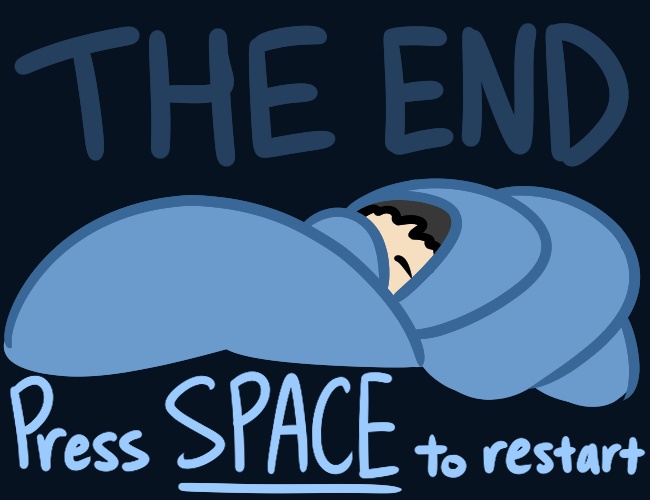
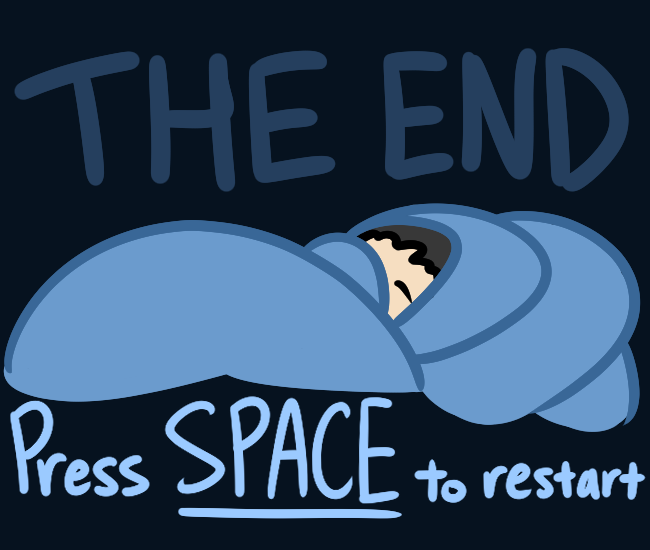
updated title cards and revised path assets

diff --git a/Source/Scenes/Play.js b/Source/Scenes/Play.js
@@ -28,12 +28,7 @@ class Play extends Phaser.Scene
         this.load.image("obstacle1", "./assets/obstacles/obstacle01.png");
         this.load.image("obstacle2", "./assets/obstacles/obstacle02.png");
         this.load.image("block", "./assets/gameBox.png");
-        this.load.image("pathHorizontal", "./assets/gamePathHorizontal.png");
-        this.load.image("pathVertical", "./assets/gamePathVertical.png");
-        this.load.image("corner1", "./assets/gamePathCorner1.png");
-        this.load.image("corner2", "./assets/gamePathCorner2.png");
-        this.load.image("corner3", "./assets/gamePathCorner3.png");
-        this.load.image("corner4", "./assets/gamePathCorner4.png");
+        this.load.image("path", "./assets/gamePath.png");
 
         // load sound
         this.load.audio("start1", "./assets/bgm/start1.wav");
